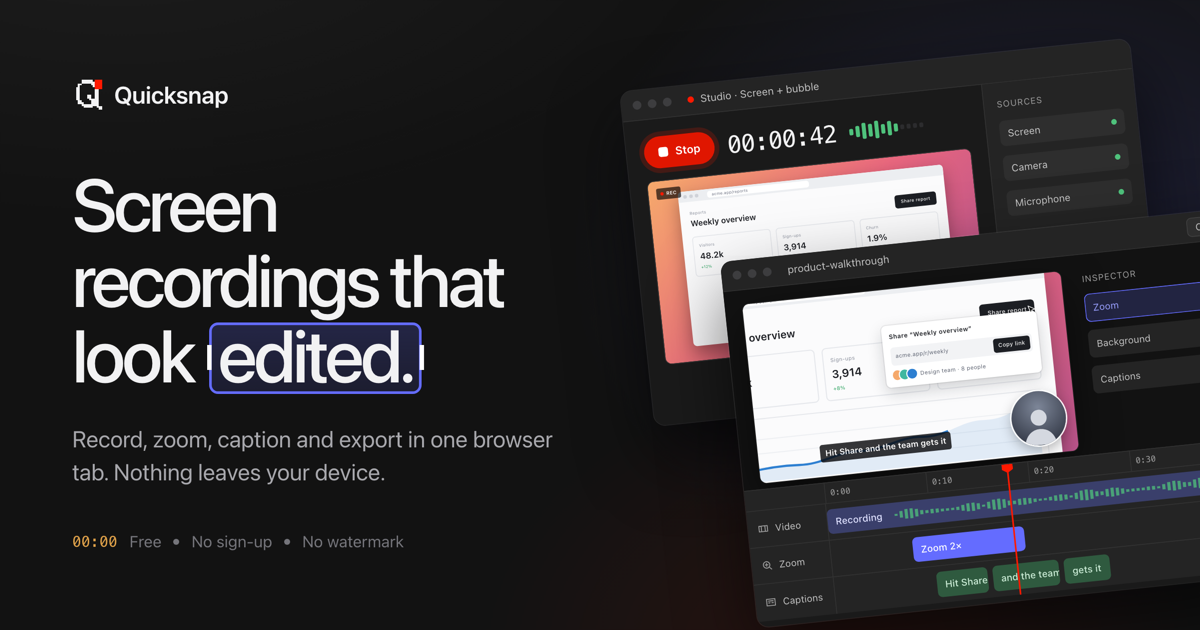
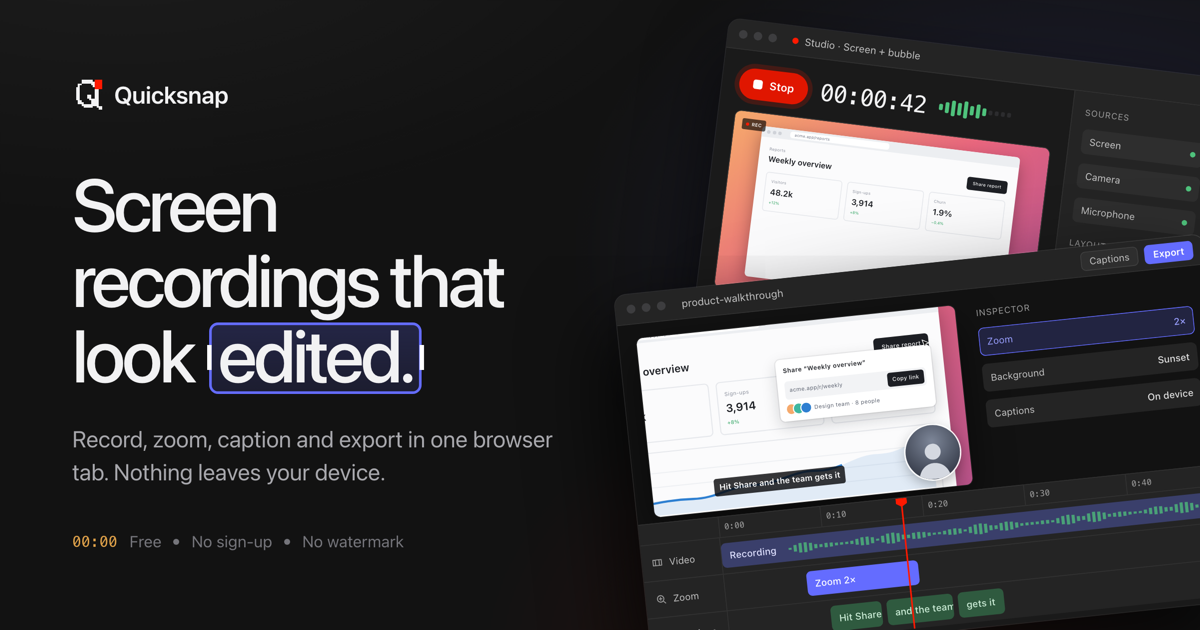
feat(landing): fan the share card's windows in opposite tilts
Studio leans clockwise at the back, Editor counter-clockwise in front, so
the record controls, preview and timeline all stay visible.

diff --git a/scripts/og/og-card.html b/scripts/og/og-card.html
@@ -50,7 +50,7 @@
   .og-pill.og-acc { background: var(--accent); border-color: var(--accent); color: #fff; font-weight: 600; }
 
   /* Back: the Studio, recording */
-  .og-studio { left: 30px; top: 92px; width: 640px; height: 420px; transform: rotate(-6deg) scale(0.8); }
+  .og-studio { left: 140px; top: 18px; width: 640px; height: 420px; transform: rotate(7deg) scale(0.78); }
   .og-studio .og-body { display: grid; grid-template-columns: 1fr 190px; height: calc(100% - 38px); }
   .og-studio .og-pv { position: relative; padding: 22px; }
   .og-studio .og-pv .canvas { border-radius: 8px; box-shadow: 0 0 0 1px var(--line); }
@@ -68,7 +68,7 @@
   .og-meter i.og-on { background: var(--ok); }
 
   /* Front: the Editor, edited */
-  .og-editor { left: 130px; top: 262px; width: 740px; height: 460px; transform: rotate(-6deg) scale(0.8); }
+  .og-editor { left: 24px; top: 296px; width: 740px; height: 460px; transform: rotate(-6deg) scale(0.8); box-shadow: 0 0 0 1px rgba(255, 255, 255, 0.12), inset 0 1px 0 rgba(255, 255, 255, 0.08), -20px 40px 100px rgba(0, 0, 0, 0.75); }
   .og-editor .og-viewer { height: 250px; padding: 18px 0 0 22px; background: var(--viewer); position: relative; overflow: hidden; }
   .og-editor .og-viewer .canvas { width: 400px; border-radius: 8px; box-shadow: 0 20px 50px rgba(0, 0, 0, 0.5), 0 0 0 1px rgba(255, 255, 255, 0.08); }
   .og-editor .layer { transform: scale(1.35); }
